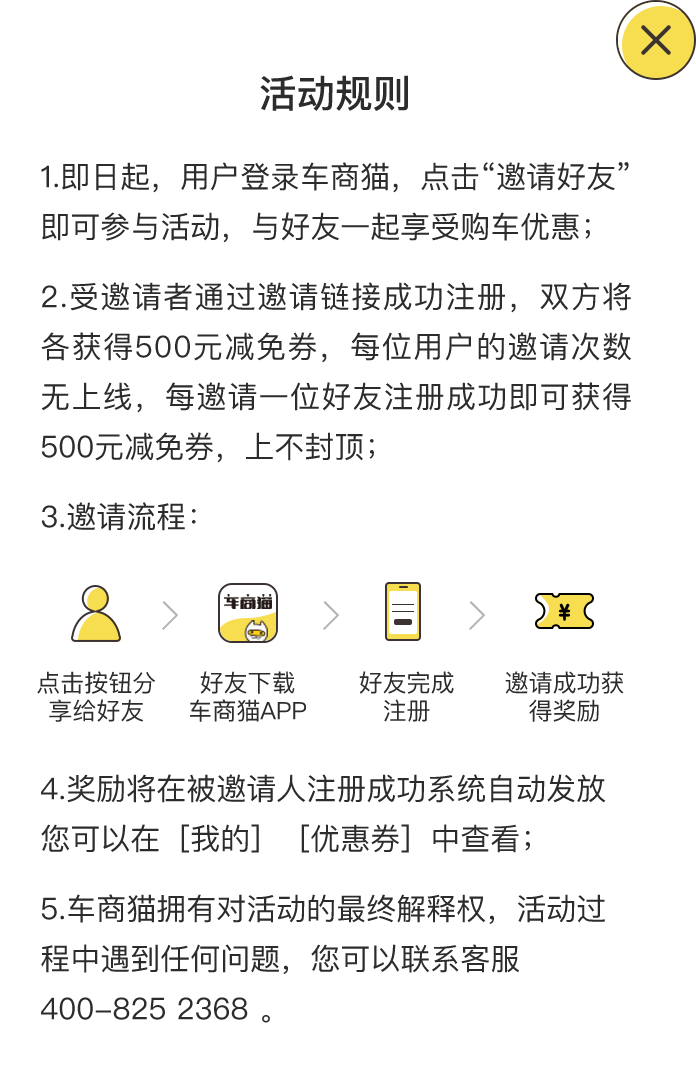
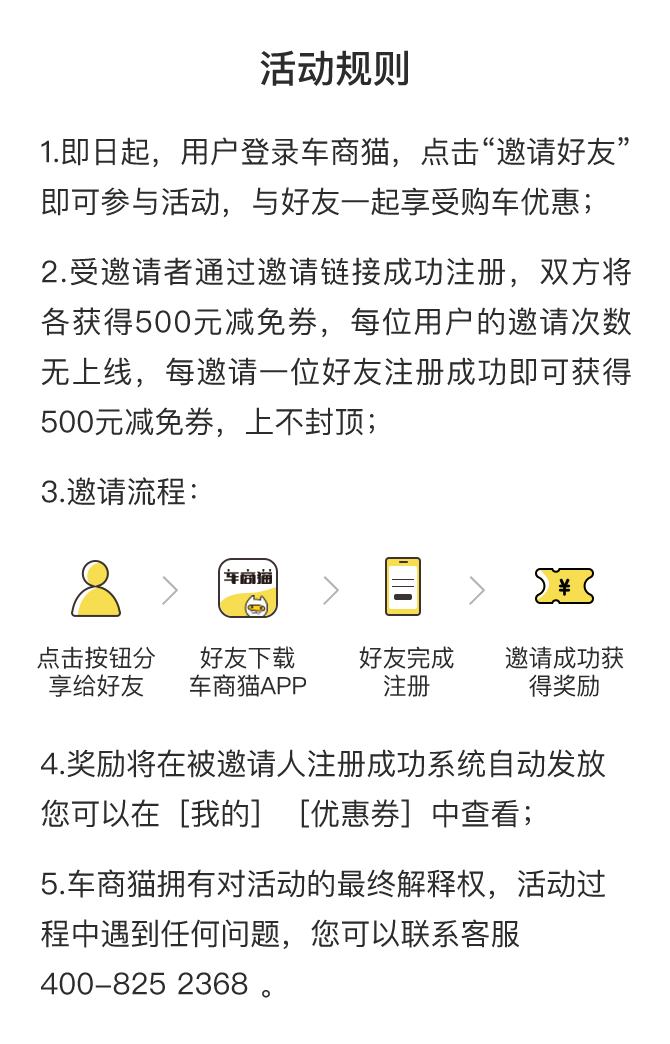
yaoqing

diff --git a/src/page/invitation/invitation.vue b/src/page/invitation/invitation.vue
@@ -18,7 +18,9 @@
 			<img :src="QRcodeUrl"/>
 		</div>
 		<div class="frame" v-show="rule">
-			<div class="rule_pop" @click="ruleHide"></div>
+			<div class="rule_pop" @click="ruleHide">
+				<span class="clone"></span>
+			</div>
 		</div>
 	</div>
 </template>
@@ -134,7 +136,7 @@ html,body{
 	margin: auto;
 }
 .invitation2in{
-	width:10rem;
+	width:100%;
 	height:10.693333rem;
 	background: url(../../assets/zc_02.png) no-repeat;
 	background-size:100%;
@@ -203,5 +205,14 @@ html,body{
 	background-size:100%; 
 	margin: 0  auto;
 	position: relative;
+}
+.clone{
+	display: block;
+	width: 1.066667rem;
+	height: 1.066667rem;
+	position: absolute;
+	right: -0.266667rem;
+	top: -0.366667rem;
+	background: url(../../assets/zc_06.png) no-repeat;
 }
 </style>
